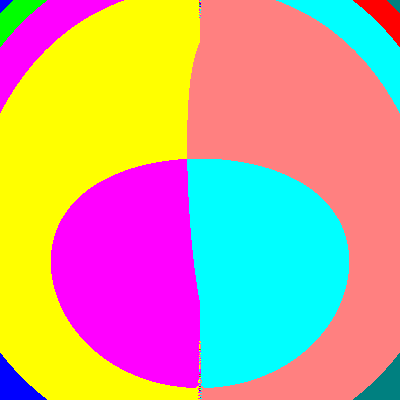
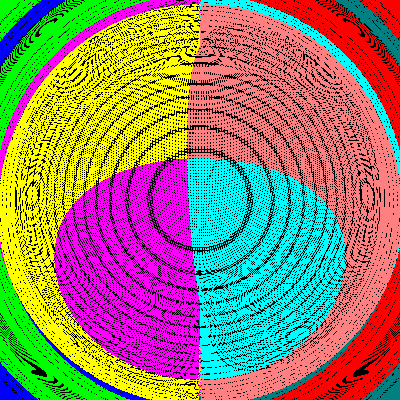
comments + grid

diff --git a/WormholeRayTracer.py b/WormholeRayTracer.py
@@ -148,7 +148,8 @@ def Simulate_DNeg(integrator, h, N, q0, Nz = 14**2, Ny = 14**2):
     S_cT = np.transpose(S_c, (2,0,1))
     S_sph = cart_Sph(S_cT)
     p, Cst = inn_momenta(S_c, S_sph, Cst_DNeg, inn_mom_DNeg)
-    q = np.transpose(np.tile(q0, (400,400,1)), (2,0,1)) + h*0.1
+    q1 = np.transpose(np.tile(q0, (400,400,1)), (2,0,1)) + h*0.1
+    q = q1
     Motion = [[p, q]]
     H = []
 
@@ -165,21 +166,21 @@ def Simulate_DNeg(integrator, h, N, q0, Nz = 14**2, Ny = 14**2):
 
     print(end - start)
 
-    pict = Make_Pict_RB(q, 40, 1, h)
+    pict = Make_Pict_RB(q, q1, 200, 0.5, 0.2)
     #print(pict)
 
     return np.array(Motion), pict , np.array(H)
 
 
-def Make_Pict_RB(q, N_a, N_r, h):
+def Make_Pict_RB(q, q0, N_a, R, w):
     # input: q: matrix with coordinates in configuration space on first row
     #        3D matrix (2D matrix of rays each containing a coordinate in colorspace)
     #        N_a: subdivision angles
     #        N_r: linspace radius to form grid
     #        h: width lines grid
 
-    Par_phi = np.arange(0, 2*np.pi, N_a-1)
-    Par_th = np.arange(0, np.pi, N_a-1)
+    Par_phi = np.linspace(0, 2*np.pi, N_a-1)
+    Par_th = np.linspace(0, np.pi, N_a-1)
     pict = []
 
     for j in range(len(q[0])):
@@ -189,9 +190,9 @@ def Make_Pict_RB(q, N_a, N_r, h):
             r = q[0][j,i]
             phi = q[1][j,i]
             th = q[2][j,i]
-            on_shell = np.abs(r - np.mod(r, N_r)) < h
-            on_phi = np.any(np.abs(phi - Par_phi) < h)
-            on_theta = np.any(np.abs(th - Par_th) < h)
+            on_shell = (np.abs(R - np.mod(r, R)) < R*w) or (np.abs(np.mod(r, R) - R) < R*w)
+            on_phi = np.any(np.abs(phi - Par_phi) < 2*np.pi/N_a*w)
+            on_theta = np.any(np.abs(th - Par_th) < np.pi/N_a*w)
 
             if (on_phi and on_theta) or (on_phi and on_shell) or (on_shell and on_theta):
                 row.append(np.array([0, 0, 0]))
@@ -318,7 +319,7 @@ def gdsc(Motion):
 
 
 #initial position in spherical coord
-Motion1, Photo1, H1 = Simulate_DNeg(Smpl.Sympl_DNeg, 0.01, 1500, np.array([9, 3, 2]), 400, 400)
+Motion1, Photo1, H1 = Simulate_DNeg(Smpl.Sympl_DNeg, 0.01, 1500, np.array([5, 3, 2]), 400, 400)
 #Motion2, Photo2, H2 = Simulate_DNeg(rk.runge_kutta, 0.01, 1000, 9, 400, 400)
 
 plot_Ham(H1)
